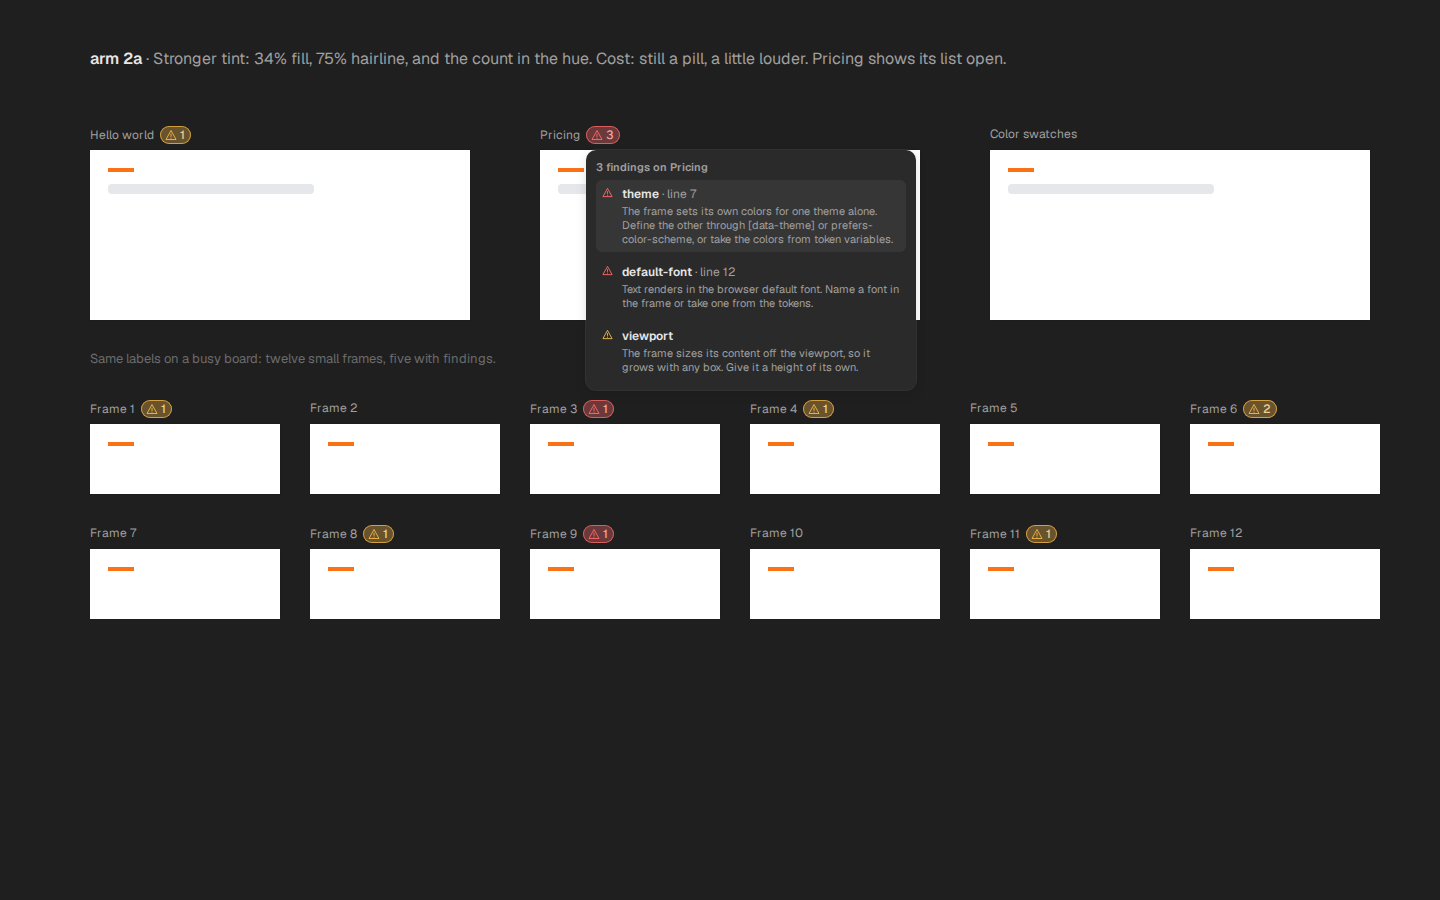
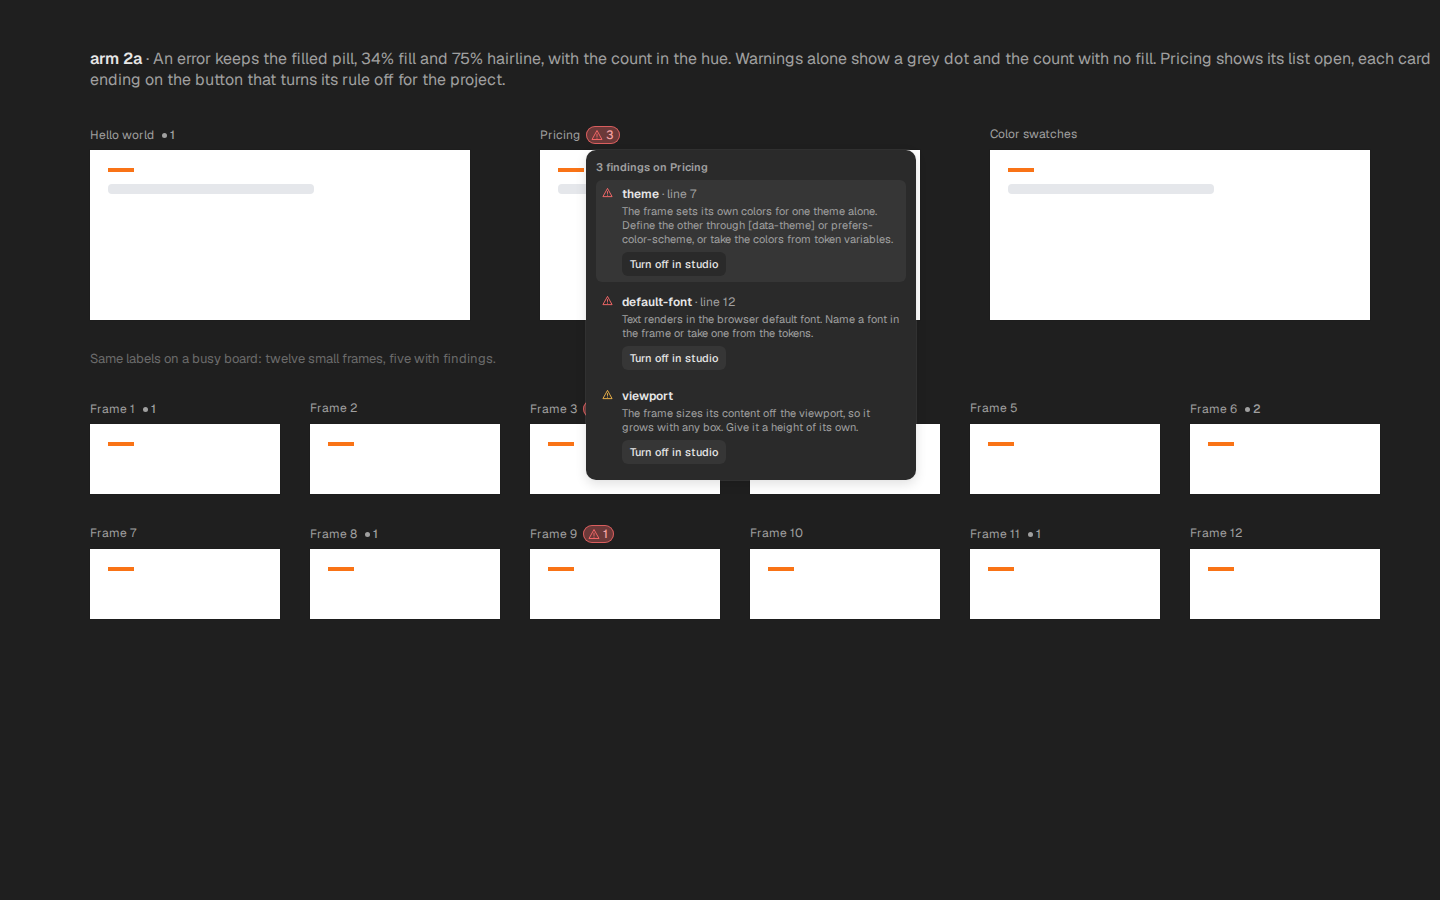
docs(design): redraw the findings reference with the quiet warning mark

diff --git a/canon/design/canvas/findings.html b/canon/design/canvas/findings.html
@@ -174,29 +174,44 @@
         font-size: 11px;
         color: var(--muted);
       }
+      .pill.wn {
+        background: none;
+        box-shadow: none;
+        color: var(--muted);
+        padding: 0 2px;
+      }
+      .qd {
+        width: 5px;
+        height: 5px;
+        border-radius: 50%;
+        background: currentColor;
+      }
+      .off {
+        display: inline-flex;
+        align-items: center;
+        height: 24px;
+        margin-top: 6px;
+        padding: 0 8px;
+        border-radius: 6px;
+        background: var(--raised);
+        color: var(--text);
+        font-size: 11px;
+        font-weight: 500;
+      }
+      .fx.on .off {
+        background: var(--panel);
+      }
     </style>
   </head>
   <body>
     <div class="cap">
-      <b>arm 2a</b> · Stronger tint: 34% fill, 75% hairline, and the count in
-      the hue. Cost: still a pill, a little louder. Pricing shows its list open.
+      <b>arm 2a</b> · An error keeps the filled pill, 34% fill and 75% hairline,
+      with the count in the hue. Warnings alone show a grey dot and the count
+      with no fill. Pricing shows its list open, each card ending on the button
+      that turns its rule off for the project.
     </div>
     <div class="fl" style="left: 90px; top: 126px">
-      Hello world<span class="pill 2a wn"
-        ><svg
-          width="12"
-          height="12"
-          viewBox="0 0 24 24"
-          fill="none"
-          stroke="currentColor"
-          stroke-width="1.8"
-          stroke-linecap="round"
-          stroke-linejoin="round"
-        >
-          <path d="M12 3l10 18H2z" />
-          <path d="M12 10v5M12 18v.5" /></svg
-        >1</span
-      >
+      Hello world<span class="pill 2a wn"><i class="qd"></i>1</span>
     </div>
     <div class="fr" style="left: 90px; top: 150px; width: 380px; height: 170px">
       <i></i><b></b>
@@ -246,7 +261,7 @@
             >The frame sets its own colors for one theme alone. Define the other
             through [data-theme] or prefers-color-scheme, or take the colors
             from token variables.</small
-          >
+          ><span class="off">Turn off in studio</span>
         </div>
       </div>
       <div class="fx er">
@@ -268,7 +283,7 @@
           ><small
             >Text renders in the browser default font. Name a font in the frame
             or take one from the tokens.</small
-          >
+          ><span class="off">Turn off in studio</span>
         </div>
       </div>
       <div class="fx wn">
@@ -290,7 +305,7 @@
           ><small
             >The frame sizes its content off the viewport, so it grows with any
             box. Give it a height of its own.</small
-          >
+          ><span class="off">Turn off in studio</span>
         </div>
       </div>
     </div>
@@ -305,21 +320,7 @@
       Same labels on a busy board: twelve small frames, five with findings.
     </div>
     <div class="fl" style="left: 90px; top: 400px">
-      Frame 1<span class="pill 2a wn"
-        ><svg
-          width="12"
-          height="12"
-          viewBox="0 0 24 24"
-          fill="none"
-          stroke="currentColor"
-          stroke-width="1.8"
-          stroke-linecap="round"
-          stroke-linejoin="round"
-        >
-          <path d="M12 3l10 18H2z" />
-          <path d="M12 10v5M12 18v.5" /></svg
-        >1</span
-      >
+      Frame 1<span class="pill 2a wn"><i class="qd"></i>1</span>
     </div>
     <div class="fr" style="left: 90px; top: 424px; width: 190px; height: 70px">
       <i></i>
@@ -349,21 +350,7 @@
       <i></i>
     </div>
     <div class="fl" style="left: 750px; top: 400px">
-      Frame 4<span class="pill 2a wn"
-        ><svg
-          width="12"
-          height="12"
-          viewBox="0 0 24 24"
-          fill="none"
-          stroke="currentColor"
-          stroke-width="1.8"
-          stroke-linecap="round"
-          stroke-linejoin="round"
-        >
-          <path d="M12 3l10 18H2z" />
-          <path d="M12 10v5M12 18v.5" /></svg
-        >1</span
-      >
+      Frame 4<span class="pill 2a wn"><i class="qd"></i>1</span>
     </div>
     <div class="fr" style="left: 750px; top: 424px; width: 190px; height: 70px">
       <i></i>
@@ -373,21 +360,7 @@
       <i></i>
     </div>
     <div class="fl" style="left: 1190px; top: 400px">
-      Frame 6<span class="pill 2a wn"
-        ><svg
-          width="12"
-          height="12"
-          viewBox="0 0 24 24"
-          fill="none"
-          stroke="currentColor"
-          stroke-width="1.8"
-          stroke-linecap="round"
-          stroke-linejoin="round"
-        >
-          <path d="M12 3l10 18H2z" />
-          <path d="M12 10v5M12 18v.5" /></svg
-        >2</span
-      >
+      Frame 6<span class="pill 2a wn"><i class="qd"></i>2</span>
     </div>
     <div
       class="fr"
@@ -400,21 +373,7 @@
       <i></i>
     </div>
     <div class="fl" style="left: 310px; top: 525px">
-      Frame 8<span class="pill 2a wn"
-        ><svg
-          width="12"
-          height="12"
-          viewBox="0 0 24 24"
-          fill="none"
-          stroke="currentColor"
-          stroke-width="1.8"
-          stroke-linecap="round"
-          stroke-linejoin="round"
-        >
-          <path d="M12 3l10 18H2z" />
-          <path d="M12 10v5M12 18v.5" /></svg
-        >1</span
-      >
+      Frame 8<span class="pill 2a wn"><i class="qd"></i>1</span>
     </div>
     <div class="fr" style="left: 310px; top: 549px; width: 190px; height: 70px">
       <i></i>
@@ -444,21 +403,7 @@
       <i></i>
     </div>
     <div class="fl" style="left: 970px; top: 525px">
-      Frame 11<span class="pill 2a wn"
-        ><svg
-          width="12"
-          height="12"
-          viewBox="0 0 24 24"
-          fill="none"
-          stroke="currentColor"
-          stroke-width="1.8"
-          stroke-linecap="round"
-          stroke-linejoin="round"
-        >
-          <path d="M12 3l10 18H2z" />
-          <path d="M12 10v5M12 18v.5" /></svg
-        >1</span
-      >
+      Frame 11<span class="pill 2a wn"><i class="qd"></i>1</span>
     </div>
     <div class="fr" style="left: 970px; top: 549px; width: 190px; height: 70px">
       <i></i>

diff --git a/canon/design/index.md b/canon/design/index.md
@@ -12,15 +12,15 @@ Each group holds accepted frames a build matches, light and dark.
 
 The board's frame and the inputs every part draws on read first.
 
-| Group         | What the user sees                                    | Code                                                  | States                                                                                                                                                                                                                                                                                                                                                                                                                                                                                                                                                                                                       |
-| ------------- | ----------------------------------------------------- | ----------------------------------------------------- | ------------------------------------------------------------------------------------------------------------------------------------------------------------------------------------------------------------------------------------------------------------------------------------------------------------------------------------------------------------------------------------------------------------------------------------------------------------------------------------------------------------------------------------------------------------------------------------------------------------ |
-| `foundations` | Chrome tokens and parts, the colors, the logo         | `src/client/styles.css`, `src/client/public/icon.svg` | Both themes, and the Frameboard kit sheets                                                                                                                                                                                                                                                                                                                                                                                                                                                                                                                                                                   |
-| `toolbar`     | The floating toolbar under the canvas                 | `src/client/board/chrome/`                            | The pill over the canvas with Move's caret and the Place toggle, Frame's caret open on Section, each narrow stage with More open, Place open, the Present button hovered with its tooltip                                                                                                                                                                                                                                                                                                                                                                                                                    |
-| `shell`       | The board frame around the canvas and its side panels | `src/client/board/screen.tsx`, `chrome/`              | UI hidden, panels at a fixed width                                                                                                                                                                                                                                                                                                                                                                                                                                                                                                                                                                           |
-| `canvas`      | Frames on the canvas, their labels, and selection     | `src/client/board/canvas.tsx`, `geometry/`, `guide/`  | Empty page, play mode, marquee, a Rectangle or Ellipse drag drawn as its shape with corners and size, snapping, findings, labels at low zoom, every frame hidden, a frame previewed at phone width, a new board's guide at each step and a refused name, a section around two frames nested in Layers, a selected scroll frame with its rail mid-drag, the open-alone icon at the label's end under hover, a frame held with its Held chip, a phone frame inside its device bezel, several elements in one box with corner handles and the size chip                                                         |
-| `layers`      | The left panel's pages, layers, and find              | `src/client/board/left-panel/`, `find/`               | Editing a layer, many pages, a search, find results                                                                                                                                                                                                                                                                                                                                                                                                                                                                                                                                                          |
-| `tabs`        | The left panel's Theme and Assets tabs                | `left-panel/theme/`, `src/client/board/assets/`       | Tokens shown, no tokens, assets                                                                                                                                                                                                                                                                                                                                                                                                                                                                                                                                                                              |
-| `inspector`   | The right panel for a frame or an element             | `src/client/board/inspector/`                         | Text element, one frame with Selection colors capped at five, several frames, several elements with Mixed values and partial counts under an Arrange row and the Layout header's Use auto layout button, the Preview row idle and active, the Layout section on a shared row with its Use auto layout button, the Position section placed free with its tip and in flow, the Height row on Scroll, the Device row on Phone beside its framed phone, the Page section with the transition list open over a slide and the This slide row, the Motion section held mid-way, the phone link card open on a frame |
+| Group         | What the user sees                                    | Code                                                  | States                                                                                                                                                                                                                                                                                                                                                                                                                                                                                                                                                                                                                                           |
+| ------------- | ----------------------------------------------------- | ----------------------------------------------------- | ------------------------------------------------------------------------------------------------------------------------------------------------------------------------------------------------------------------------------------------------------------------------------------------------------------------------------------------------------------------------------------------------------------------------------------------------------------------------------------------------------------------------------------------------------------------------------------------------------------------------------------------------ |
+| `foundations` | Chrome tokens and parts, the colors, the logo         | `src/client/styles.css`, `src/client/public/icon.svg` | Both themes, and the Frameboard kit sheets                                                                                                                                                                                                                                                                                                                                                                                                                                                                                                                                                                                                       |
+| `toolbar`     | The floating toolbar under the canvas                 | `src/client/board/chrome/`                            | The pill over the canvas with Move's caret and the Place toggle, Frame's caret open on Section, each narrow stage with More open, Place open, the Present button hovered with its tooltip                                                                                                                                                                                                                                                                                                                                                                                                                                                        |
+| `shell`       | The board frame around the canvas and its side panels | `src/client/board/screen.tsx`, `chrome/`              | UI hidden, panels at a fixed width                                                                                                                                                                                                                                                                                                                                                                                                                                                                                                                                                                                                               |
+| `canvas`      | Frames on the canvas, their labels, and selection     | `src/client/board/canvas.tsx`, `geometry/`, `guide/`  | Empty page, play mode, marquee, a Rectangle or Ellipse drag drawn as its shape with corners and size, snapping, findings with the quiet warning mark beside the filled error pill and a Turn off button on each card, labels at low zoom, every frame hidden, a frame previewed at phone width, a new board's guide at each step and a refused name, a section around two frames nested in Layers, a selected scroll frame with its rail mid-drag, the open-alone icon at the label's end under hover, a frame held with its Held chip, a phone frame inside its device bezel, several elements in one box with corner handles and the size chip |
+| `layers`      | The left panel's pages, layers, and find              | `src/client/board/left-panel/`, `find/`               | Editing a layer, many pages, a search, find results                                                                                                                                                                                                                                                                                                                                                                                                                                                                                                                                                                                              |
+| `tabs`        | The left panel's Theme and Assets tabs                | `left-panel/theme/`, `src/client/board/assets/`       | Tokens shown, no tokens, assets                                                                                                                                                                                                                                                                                                                                                                                                                                                                                                                                                                                                                  |
+| `inspector`   | The right panel for a frame or an element             | `src/client/board/inspector/`                         | Text element, one frame with Selection colors capped at five, several frames, several elements with Mixed values and partial counts under an Arrange row and the Layout header's Use auto layout button, the Preview row idle and active, the Layout section on a shared row with its Use auto layout button, the Position section placed free with its tip and in flow, the Height row on Scroll, the Device row on Phone beside its framed phone, the Page section with the transition list open over a slide and the This slide row, the Motion section held mid-way, the phone link card open on a frame                                     |
 
 ## Home, overlays, and agents
 
